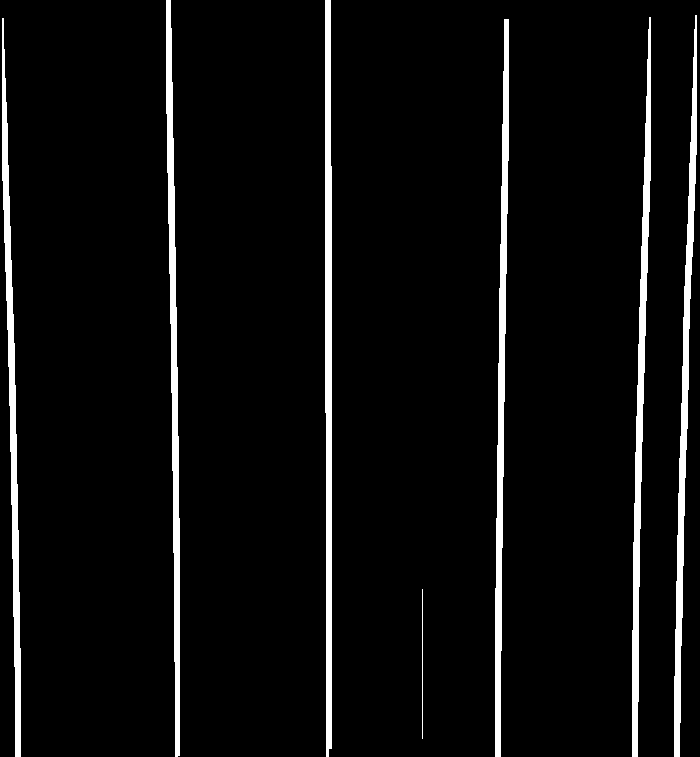
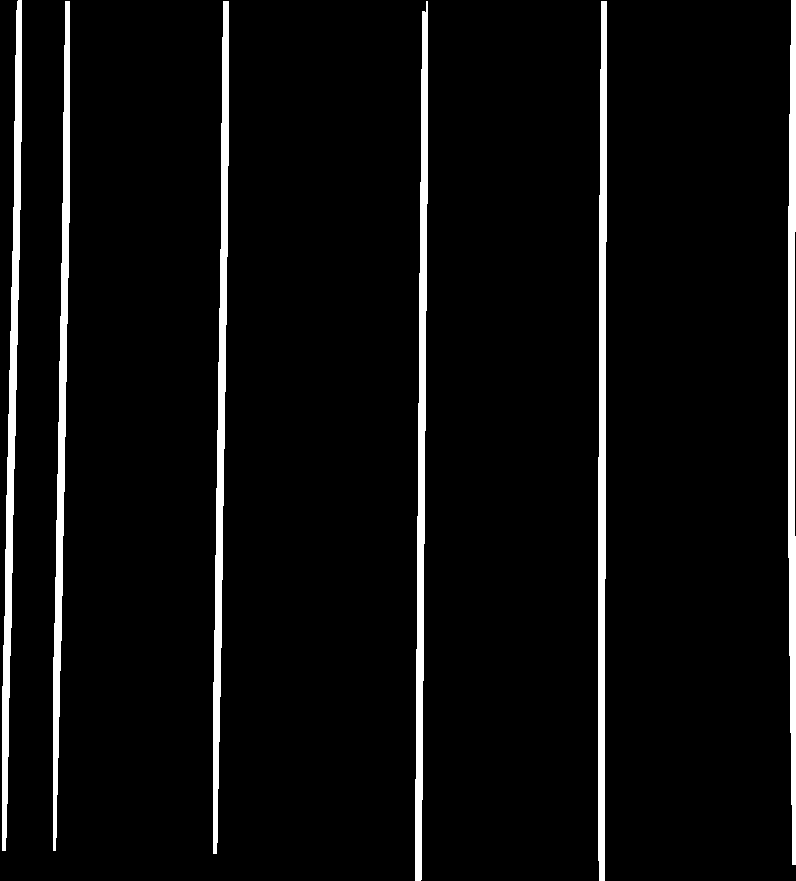
done

diff --git a/python_work.py b/python_work.py
@@ -15,7 +15,7 @@ predict_model = tf.keras.models.load_model('./models/model_tensorflow')
 predict_model.summary()
 
 # img_path = 'D:/Study/AI/Python/NhanDang/Main/digits.jpg'
-img_path = './assets/test/digits.jpg'
+img_path = './assets/test/test_left.jpg'
 num_rows = 37
 
 parser = argparse.ArgumentParser()
@@ -37,28 +37,17 @@ if args.img_path:
 
 # Step 1
 print("Reading image from path", img_path)
-input_img = cv2.imread(img_path, cv2.IMREAD_GRAYSCALE)
+input_img = cv2.imread(img_path)#, cv2.IMREAD_GRAYSCALE)
 
 img_yatzy_sheet, img_binary_yatzy_sheet, img_binary_only_numbers, yatzy_cells_bounding_rects = sheet.generate_yatzy_sheet(input_img, num_rows_in_grid=num_rows)
 
-
-# img = cv2.imread('D:/Study/AI/Python/NhanDang/Main/digits.jpg',cv2.IMREAD_GRAYSCALE)
-
-# img_adaptive_binary = sheet.get_adaptive_binary_image(img)
-
-# img_binary_yatzy_sheet = sheet.get_rotated_yatzy_sheet(img, img_adaptive_binary)
-
-# img_yatzy_sheet, img_binary_yatzy_sheet, img_binary_grid, yatzy_cells_bounding_rects = sheet.generate_yatzy_sheet(img)
-
-# img_binary_gird, img_binary_sheet_only_digits = sheet.get_yatzy_grid(img_binary_yatzy_sheet)
-
-# yatzy_cells_bounding_rects, yatzy_grid_bounding_rect = sheet.get_yatzy_cells_bounding_rects(img_binary_gird)
 
 img_yatzy_cells = img_yatzy_sheet.copy()
 cv_utils.draw_bounding_rects(img_yatzy_cells, yatzy_cells_bounding_rects)
 cv_utils.show_window('img_yatzy_cells', img_yatzy_cells)
 
 digit_contours = cv_utils.get_external_contours(img_binary_only_numbers)
+
 
 for i, cnt in enumerate(digit_contours):
 
@@ -115,11 +104,3 @@ for i, cnt in enumerate(digit_contours):
 cv_utils.show_window('img_yatzy_sheet', img_yatzy_sheet, debug=True)
 cv_utils.show_window('img_binary_yatzy_sheet', img_binary_yatzy_sheet)
 cv_utils.show_window('img_binary_only_numbers', img_binary_only_numbers)
-
-# cv2.imshow('image' , img_binary_yatzy_sheet)
-# cv2.waitKey(0)
-# cv2.imshow('image' , img_yatzy_sheet)
-# cv2.waitKey(0)
-# cv2.imshow('image' , img_yatzy_cells)
-# cv2.waitKey(0)
-# cv2.destroyAllWindows()

diff --git a/sheet.py b/sheet.py
@@ -98,15 +98,20 @@ def get_merged_line(lines, line_a, rho_distance, degree_distance):
     return line_a
 
 
+# def get_adaptive_binary_image(img):
+#     # img_gray = cv2.cvtColor(img, cv2.COLOR_BGR2GRAY)
+#     #img = (cv2.GaussianBlurimg, (5, 5), 0)
+#
+#     # gray = cv2.cvtColor(img, cv2.COLOR_BGR2GRAY)
+#     # gray = cv2.GaussianBlur(gray, (5, 5), 0)
+#     ret, th1 = cv2.threshold(img, 127, 255, cv2.THRESH_BINARY_INV)
+#     return cv2.adaptiveThreshold(img, 255, cv2.ADAPTIVE_THRESH_GAUSSIAN_C, cv2.THRESH_BINARY_INV, 7,10)
 def get_adaptive_binary_image(img):
-    # img_gray = cv2.cvtColor(img, cv2.COLOR_BGR2GRAY)
-    #img = (cv2.GaussianBlurimg, (5, 5), 0)
+    gray = cv2.cvtColor(img, cv2.COLOR_BGR2GRAY)
 
-    # gray = cv2.cvtColor(img, cv2.COLOR_BGR2GRAY)
-    # gray = cv2.GaussianBlur(gray, (5, 5), 0)
-    ret, th1 = cv2.threshold(img, 127, 255, cv2.THRESH_BINARY_INV)
-    return cv2.adaptiveThreshold(img, 255, cv2.ADAPTIVE_THRESH_GAUSSIAN_C, cv2.THRESH_BINARY_INV, 7,10)
+    gray = cv2.GaussianBlur(gray, (5, 5), 0)
 
+    return cv2.adaptiveThreshold(gray, 255,  cv2.ADAPTIVE_THRESH_GAUSSIAN_C, cv2.THRESH_BINARY_INV, 7, 4)
 
 def merge_nearby_lines(lines, rho_distance=15, degree_distance=20):
     """ Merges nearby lines with the specified rho and degree distance.
@@ -164,7 +169,7 @@ def get_rotated_yatzy_sheet(img, img_binary):
 
     img_raw_yatzy_sheet = cv_utils.get_rotated_image_from_contour(img, biggest_contour)
 
-    img_raw_yatzy_sheet = resize_to_right_ratio(img_raw_yatzy_sheet)
+    # img_raw_yatzy_sheet = resize_to_right_ratio(img_raw_yatzy_sheet)
     img_binary_sheet_rotated = get_adaptive_binary_image(img_raw_yatzy_sheet)
 
     return img_raw_yatzy_sheet, img_binary_sheet_rotated

diff --git a/cv_utils.py b/cv_utils.py
@@ -62,7 +62,7 @@ def get_rotated_image_from_contour(img, contour):
         temp_height = height
         height = width
         width = temp_height
-        angle_degrees = 90 + angle_degrees
+        angle_degrees =   angle_degrees - 90
 
     # Reassign rotated rect with updated values
     rotated_rect = ((x_center, y_center), (width, height), angle_degrees)
@@ -80,15 +80,14 @@ def get_rotated_image_from_contour(img, contour):
     # Prepare for rotation transformation
     src_pts = rect_box_points.astype("float32")
     dst_pts = np.array([
-        [0, height-1],  # Bottom Left
+        [1, height-1],  # Bottom Left
         [0, 0],  # Top Left
         [width-1, 0],  # Top Right
     ], dtype="float32")
 
     # Affine rotation transformation
     ROTATION_MAT = cv2.getAffineTransform(src_pts[:3], dst_pts)
-    return cv2.warpAffine(
-        img, ROTATION_MAT, (width, height))
+    return cv2.warpAffine(img, ROTATION_MAT, (width, height))
 
 
 def get_com_shift(img):
